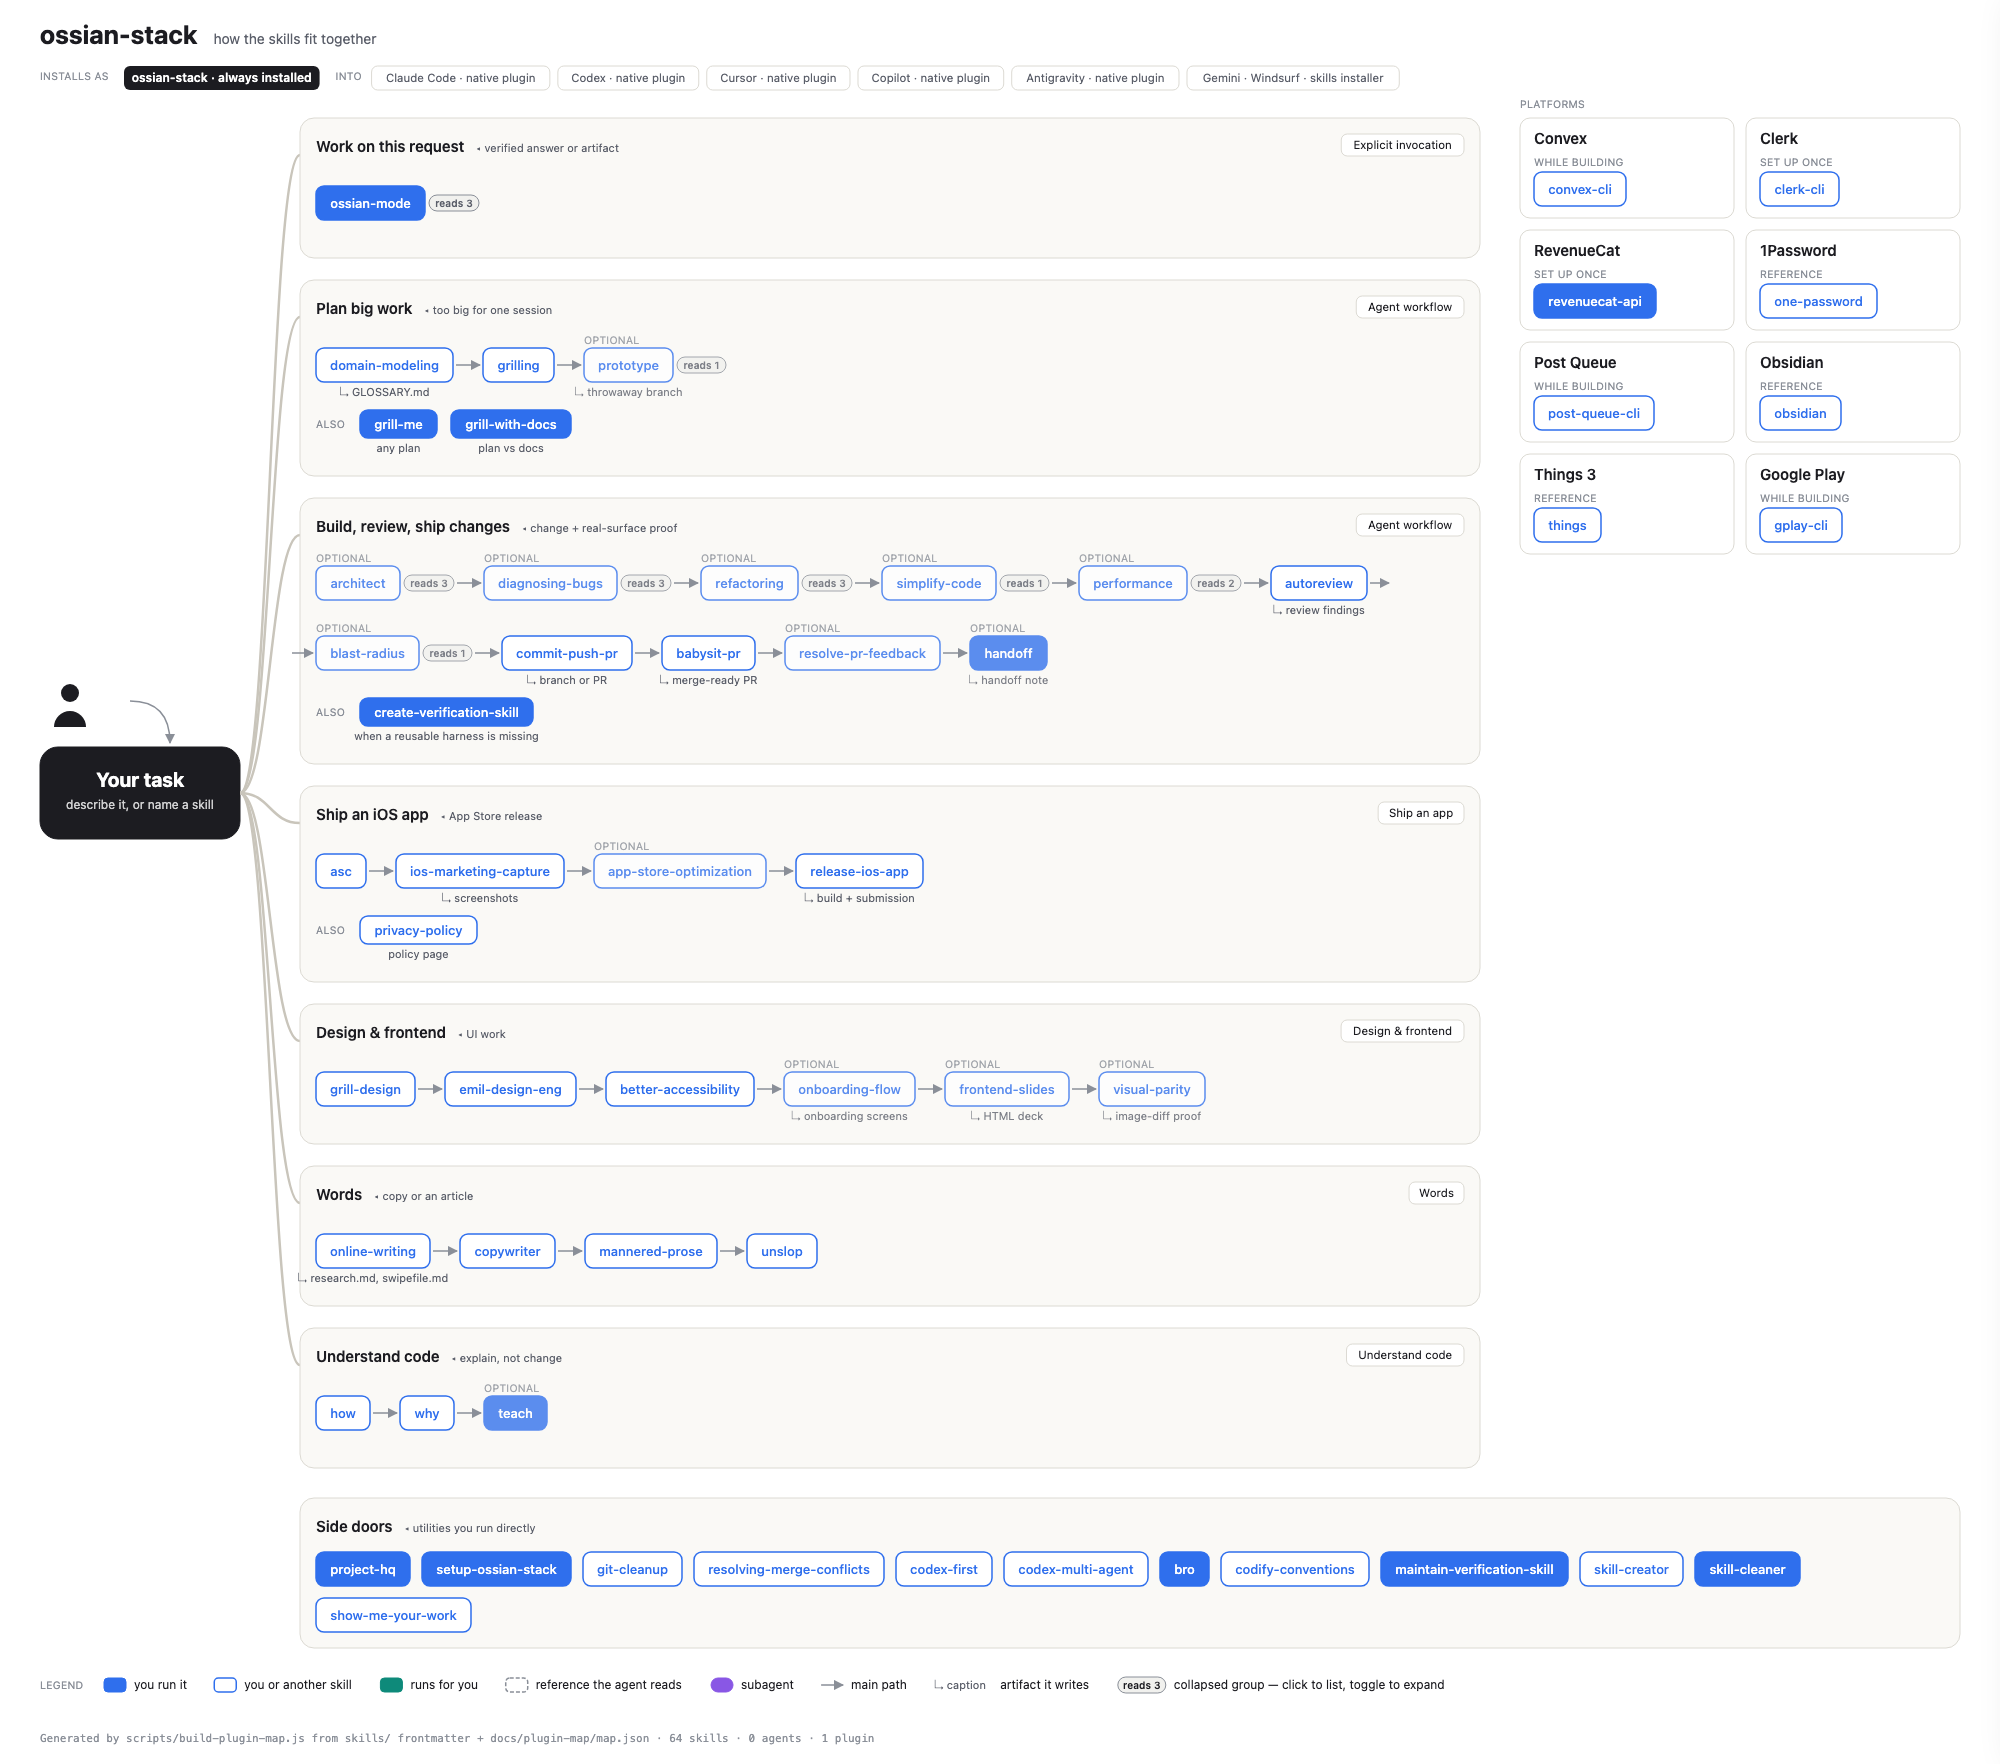
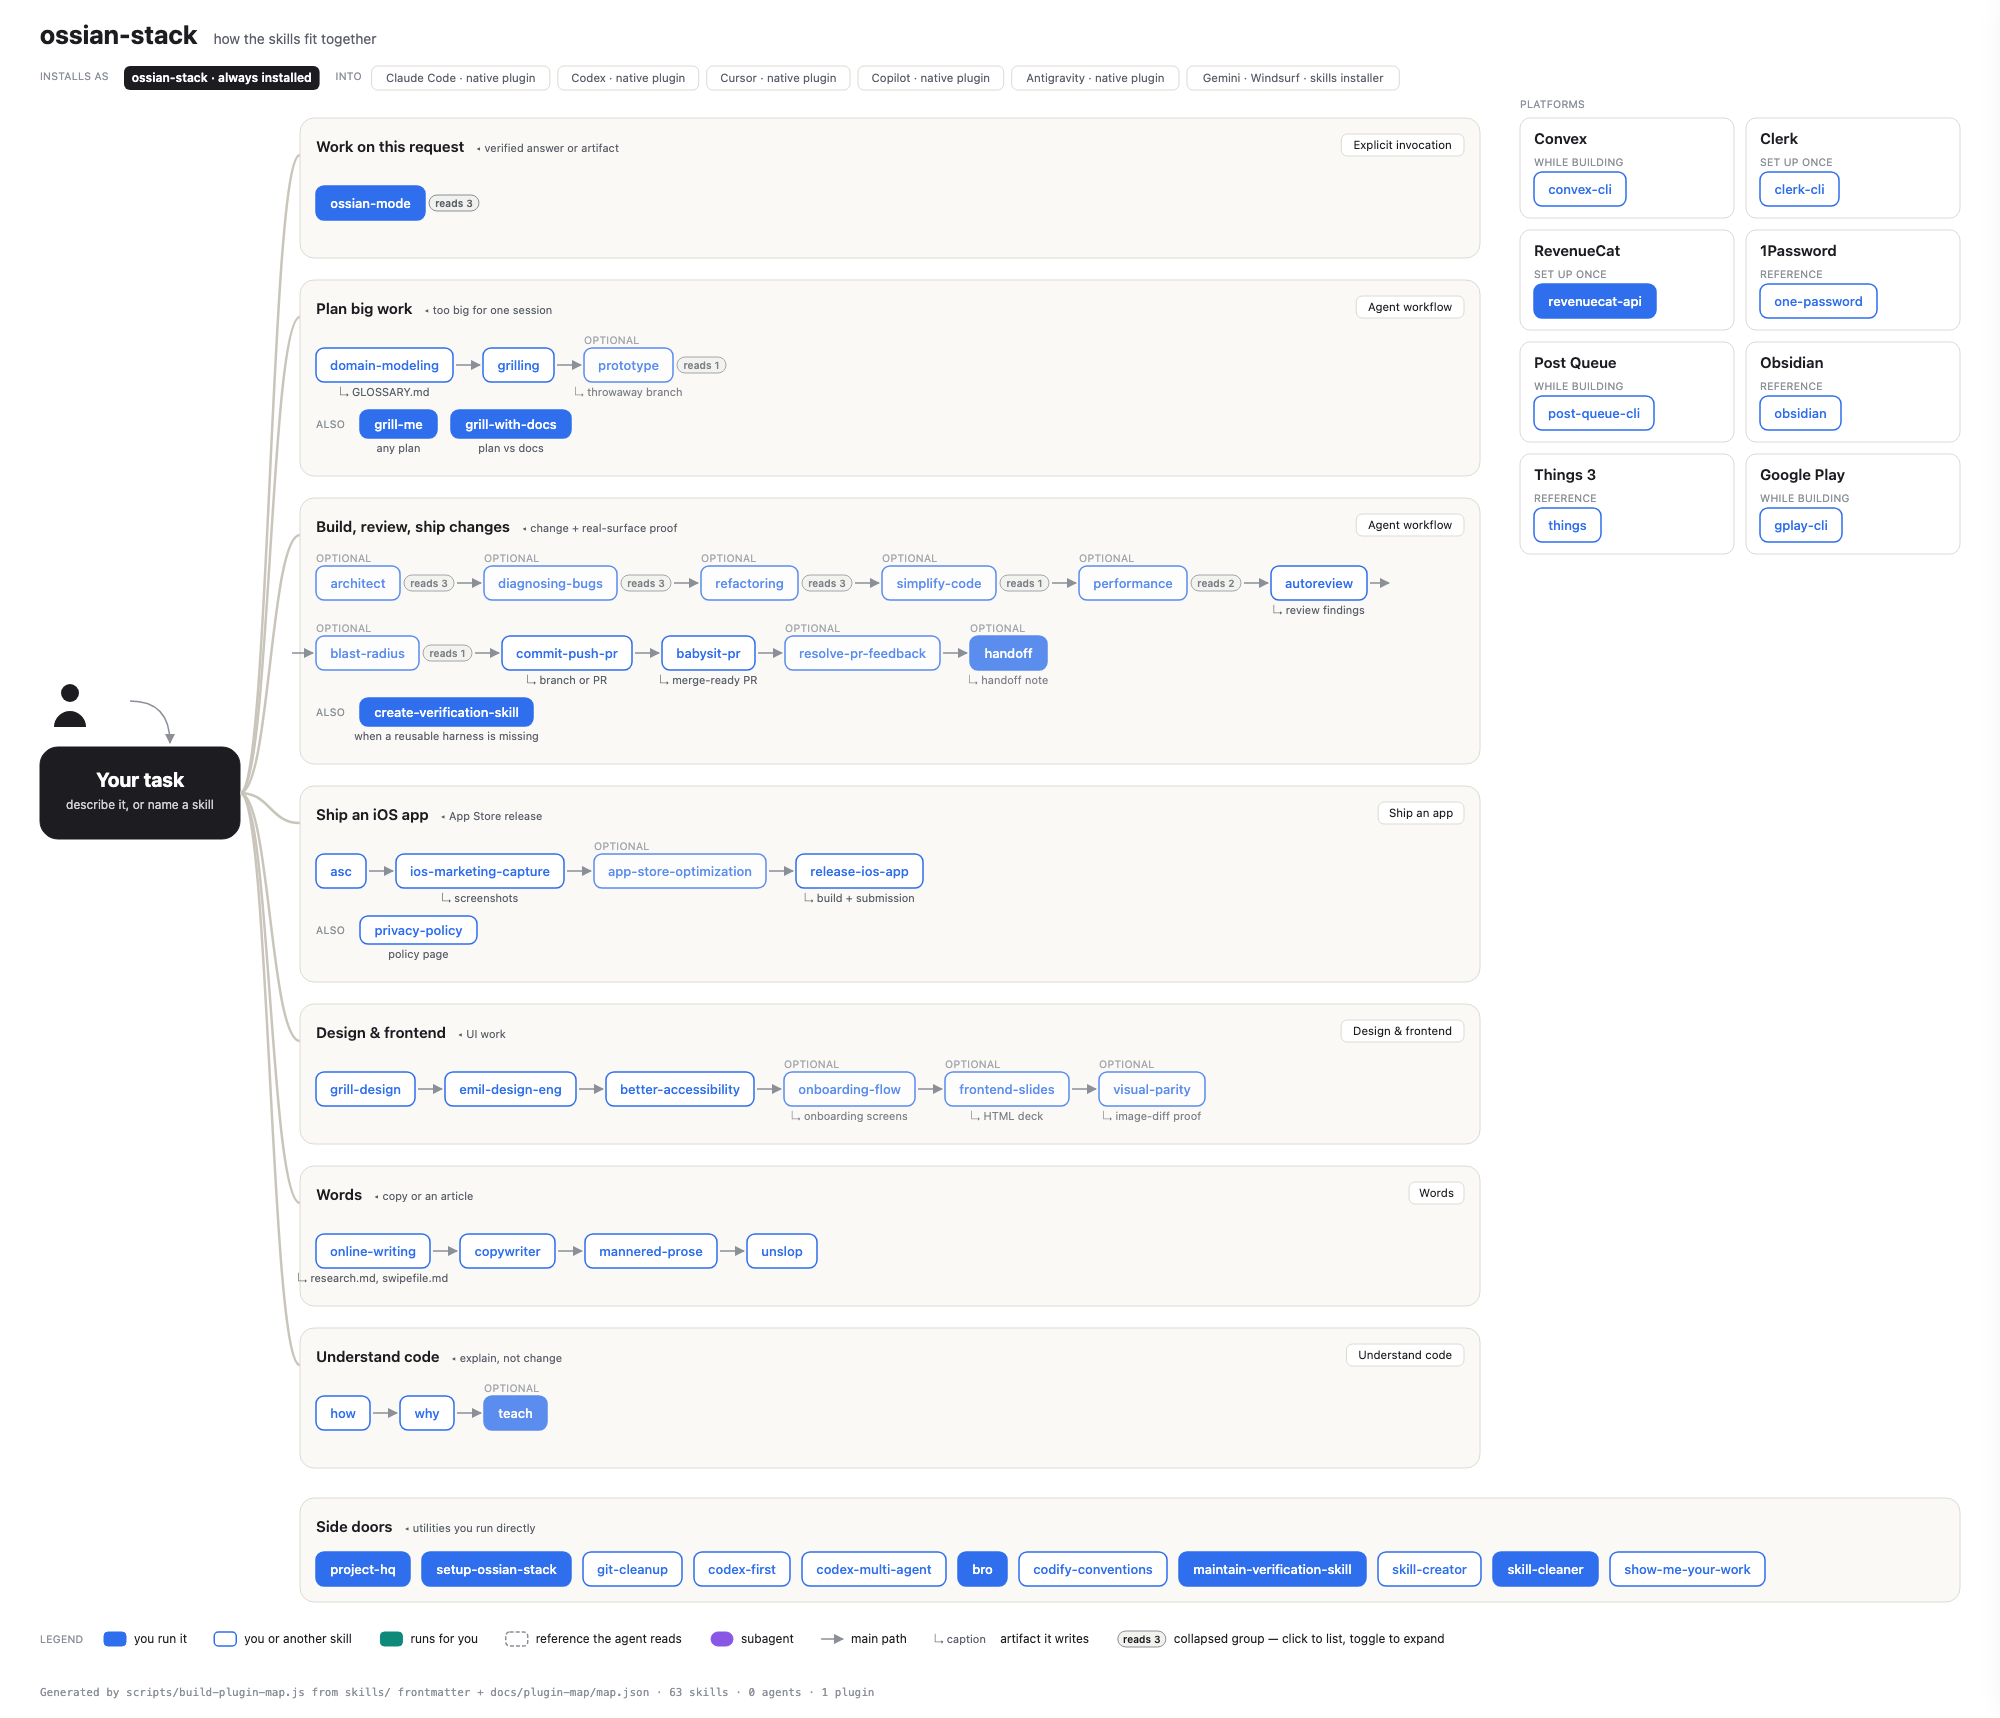
refactor(skills): remove resolving-merge-conflicts

diff --git a/docs/plugin-map/index.html b/docs/plugin-map/index.html
@@ -446,7 +446,6 @@
    "project-hq",
    "setup-ossian-stack",
    "git-cleanup",
-   "resolving-merge-conflicts",
    "codex-first",
    "codex-multi-agent",
    "bro",
@@ -1574,22 +1573,6 @@
    ],
    "routedBy": []
   },
-  "resolving-merge-conflicts": {
-   "id": "resolving-merge-conflicts",
-   "type": "skill",
-   "plugin": "ossian-stack",
-   "display": "Resolving Merge Conflicts",
-   "description": "Use when you need to resolve an in-progress git merge/rebase conflict.",
-   "role": "both",
-   "humanOnly": false,
-   "argumentHint": null,
-   "origin": "adapted",
-   "repo": "https://github.com/mattpocock/skills",
-   "calls": [],
-   "routes": [],
-   "calledBy": [],
-   "routedBy": []
-  },
   "revenuecat-api": {
    "id": "revenuecat-api",
    "type": "skill",
@@ -1824,7 +1807,7 @@
   }
  },
  "counts": {
-  "skills": 64,
+  "skills": 63,
   "agents": 0,
   "plugins": 1
  }

diff --git a/README.md b/README.md
@@ -2,7 +2,7 @@
 
 Ossian's personal agent skills, packaged as one plugin for Claude Code, Codex, and Cursor.
 
-![skills](https://img.shields.io/badge/skills-64-blue)
+![skills](https://img.shields.io/badge/skills-63-blue)
 ![license](https://img.shields.io/badge/license-MIT-green)
 ![runtimes](https://img.shields.io/badge/runtimes-Claude%20Code%20%C2%B7%20Codex%20%C2%B7%20Cursor-8957e5)
 
@@ -151,7 +151,7 @@ refreshed instead of quietly rotting.
 
 ## Skills at a glance
 
-64 skills, grouped by what they are for.
+63 skills, grouped by what they are for.
 
 | Group | Covers | Skills |
 | --- | --- | --- |
@@ -159,7 +159,7 @@ refreshed instead of quietly rotting.
 | **Design & frontend** | Accessibility, UI craft and motion, decks, onboarding, throwaway prototypes | `better-accessibility` · `emil-design-eng` · `grill-design` · `frontend-slides` · `onboarding-flow` · `prototype` · `visual-parity` |
 | **Words** | Marketing copy, editorial audit and research, plain-statement and slop passes | `copywriter` · `online-writing` · `mannered-prose` · `unslop` |
 | **Backend & infra** | Convex, Clerk, RevenueCat, secrets, Post Queue, infrastructure operations | `convex-cli` · `clerk-cli` · `revenuecat-api` · `one-password` · `post-queue-cli` |
-| **Agent workflow** | Review, routing, chat orchestration, large-effort planning, simplification, refactoring, debugging, verification, conventions enforcement, direct trunk delivery or PR creation with merge-ready follow-through, targeted post-merge cleanup, explicit repository-wide git hygiene, install and skill maintenance | `architect` · `autoreview` · `babysit-pr` · `blast-radius` · `commit-push-pr` · `codify-conventions` · `setup-ossian-stack` · `diagnosing-bugs` · `domain-modeling` · `performance` · `create-verification-skill` · `maintain-verification-skill` · `codex-first` · `codex-multi-agent` · `git-cleanup` · `grill-me` · `grill-with-docs` · `grilling` · `handoff` · `project-hq` · `show-me-your-work` · `ossian-mode` · `refactoring` · `resolving-merge-conflicts` · `resolve-pr-feedback` · `simplify-code` · `bro` · `skill-creator` · `skill-cleaner` |
+| **Agent workflow** | Review, routing, chat orchestration, large-effort planning, simplification, refactoring, debugging, verification, conventions enforcement, direct trunk delivery or PR creation with merge-ready follow-through, targeted post-merge cleanup, explicit repository-wide git hygiene, install and skill maintenance | `architect` · `autoreview` · `babysit-pr` · `blast-radius` · `commit-push-pr` · `codify-conventions` · `setup-ossian-stack` · `diagnosing-bugs` · `domain-modeling` · `performance` · `create-verification-skill` · `maintain-verification-skill` · `codex-first` · `codex-multi-agent` · `git-cleanup` · `grill-me` · `grill-with-docs` · `grilling` · `handoff` · `project-hq` · `show-me-your-work` · `ossian-mode` · `refactoring` · `resolve-pr-feedback` · `simplify-code` · `bro` · `skill-creator` · `skill-cleaner` |
 | **Principles** | Short, explicitly-invoked rules for how to work — verification, design exploration, debugging posture, domain modeling | `principle-encode-lessons-in-structure` · `principle-exhaust-the-design-space` · `principle-fix-root-causes` · `principle-model-the-domain` · `principle-prove-it-works` · `principle-redesign-from-first-principles` · `principle-sequence-verifiable-units` · `principle-subtract-before-you-add` |
 | **Understand code** | Codebase walkthroughs, design rationale, explaining a change | `how` · `why` · `teach` |
 | **Personal tooling** | Notes and tasks | `obsidian` · `things` |
